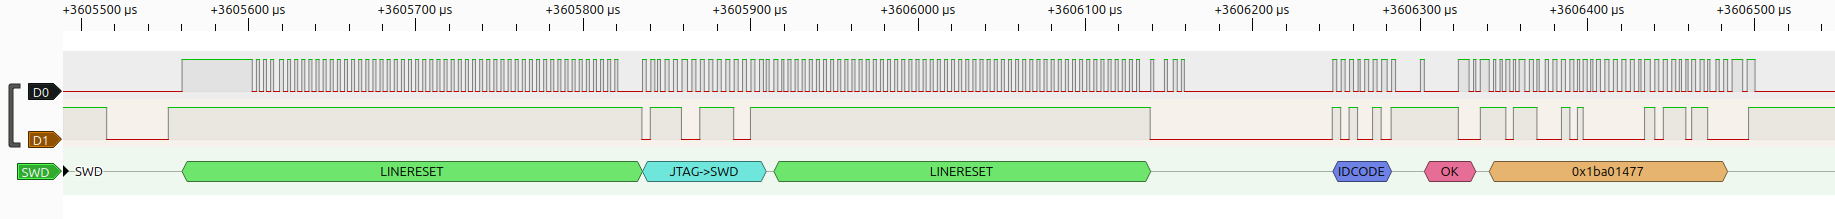
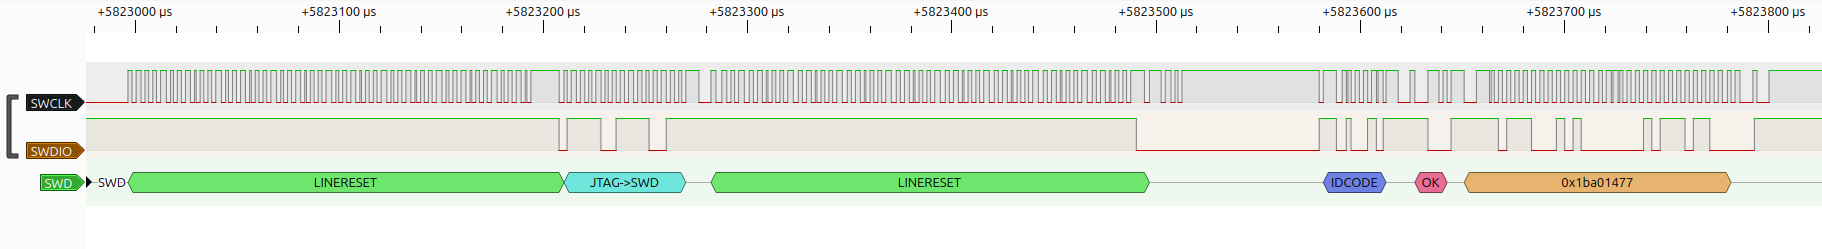
swclck fix properly for handling follow up write

diff --git a/content/posts/2026/09/swd-protocol-programmer-embedded-rust.md b/content/posts/2026/09/swd-protocol-programmer-embedded-rust.md
@@ -118,14 +118,14 @@ Now that we understand the basic SWD signals, we can implement them in Rust. We 
 
 ### Generating the SWD Clock
 
-The SWCLK signal provides the timing for SWD communication. We can generate the clock by driving SWCLK high and low with a short delay between each transition.
+The SWCLK signal provides the timing for SWD communication. We can generate one clock cycle by driving SWCLK low and then high, with a short delay between each transition.
 
 ```rust
 fn clock(&mut self) {
-    self.swclk.set_high();
+    self.swclk.set_low();
     self.delay.delay_micros(1);
 
-    self.swclk.set_low();
+    self.swclk.set_high();
     self.delay.delay_micros(1);
 }
 ```
@@ -292,7 +292,7 @@ A typical SWD transaction has three phases:
   <figcaption>SWD successful read operation - From the ARM specification</figcaption>
 </figure>
 
-Because SWDIO is bidirectional, its direction changes during a transaction. A one-cycle turnaround period is inserted whenever control of SWDIO changes. This gives the current controller time to release the line before the other side takes control.
+Because SWDIO is bidirectional, the host and target must take turns driving it. A one-cycle turnaround is inserted when control of SWDIO changes. During the turnaround cycle, neither side drives SWDIO.
 
 In our case, we will read the STM32's DP `IDCODE`. The `IDCODE` is a register in the Debug Port (DP) that contains identification information for the debug port. The host first sends a request to read the register. The target responds with an acknowledgment. The target then sends the 32-bit IDCODE followed by a parity bit.
 
@@ -407,11 +407,8 @@ fn read_dp_idcode(&mut self) -> Result<u32, SwdError> {
 
     self.write_bits(request as u32, 8);
 
-    // TURNAROUND
-    // ESP32 stops driving SWDIO.
-    // STM32 will now drive it.
+    // Host -> target turnaround.
     self.swdio_input();
-
     self.clock();
 
     // STM32 sends ACK.
@@ -433,6 +430,8 @@ fn read_dp_idcode(&mut self) -> Result<u32, SwdError> {
     // 1-bit parity
     let idcode = self.read_bits(32);
     let parity = self.read_bit();
+
+    // Target -> host turnaround.
     self.clock();
 
     // Check parity.
@@ -576,10 +575,10 @@ impl<'d> Swd<'d> {
     }
 
     fn clock(&mut self) {
-        self.swclk.set_high();
+        self.swclk.set_low();
         self.delay.delay_micros(1);
 
-        self.swclk.set_low();
+        self.swclk.set_high();
         self.delay.delay_micros(1);
     }
 
@@ -693,11 +692,8 @@ impl<'d> Swd<'d> {
 
         self.write_bits(request as u32, 8);
 
-        // TURNAROUND
-        // ESP32 stops driving SWDIO.
-        // STM32 will now drive it.
+        // Host -> target turnaround.
         self.swdio_input();
-
         self.clock();
 
         // STM32 sends ACK.
@@ -719,6 +715,8 @@ impl<'d> Swd<'d> {
         // 1-bit parity
         let idcode = self.read_bits(32);
         let parity = self.read_bit();
+
+        // Target -> host turnaround.
         self.clock();
 
         // Check parity.
